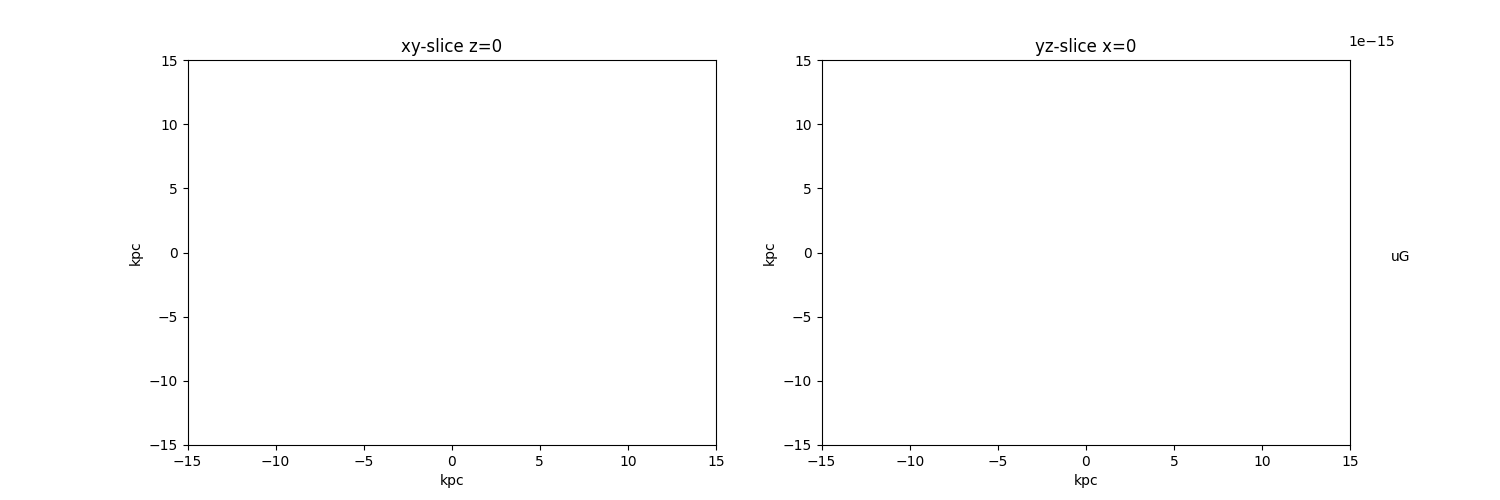
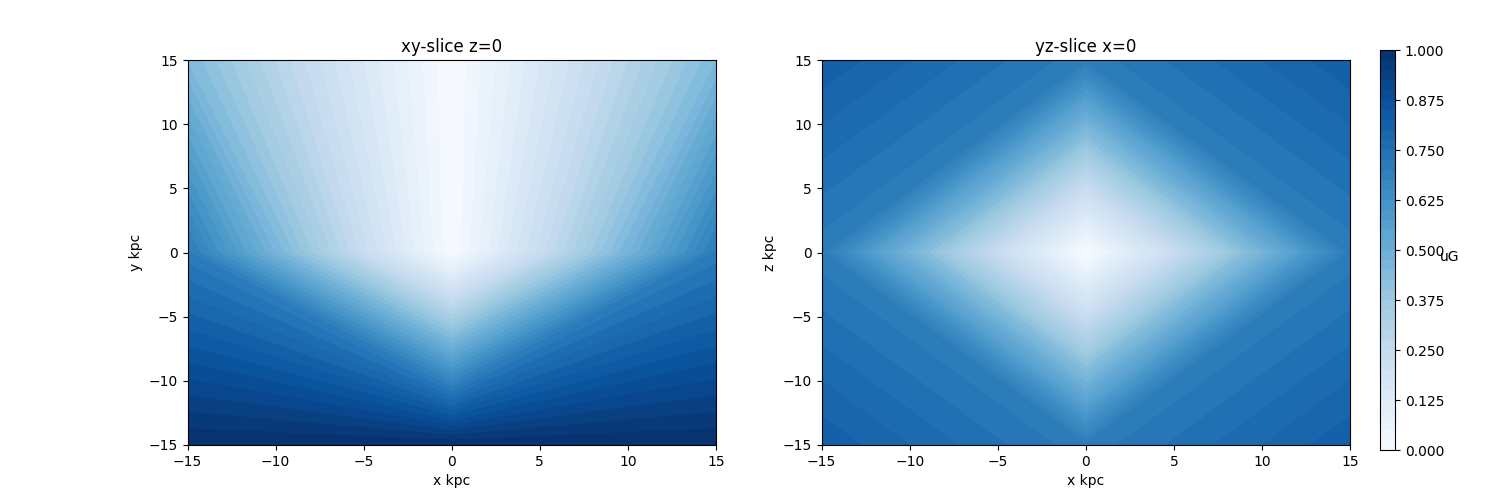
correct projection

diff --git a/synchrotronSim.py b/synchrotronSim.py
@@ -29,6 +29,7 @@ def plot_slices(data, grid, fname=' '):
     resolution = grid.resolution    
     
     # Take a horizontal and a vertical slice through the middle of the box
+    print("Taking index", int(resolution[2]/2))
     hor_slice = data[:,:,int(resolution[2]/2)]/unit 
     ver_slice = data[int(resolution[0]/2),:,:]/unit
     x = grid.x[:,0,0]/u.kpc
@@ -38,6 +39,7 @@ def plot_slices(data, grid, fname=' '):
     titles = ['xy-slice z=0','yz-slice x=0']
     slices = [hor_slice, ver_slice]
     coords = [[x,y], [x,z]]
+    clabel = [['x','y'], ['x','z']]
 
     maxvalue = np.max(data)/unit
     
@@ -50,8 +52,8 @@ def plot_slices(data, grid, fname=' '):
         im = ax.contourf(coords[n][0], coords[n][1], slices[n],
     		     40, cmap='Blues', vmin = 0, vmax = maxvalue)
         ax.title.set_text(titles[n])
-        ax.set_xlabel('kpc')
-        ax.set_ylabel('kpc')
+        ax.set_xlabel(clabel[n][0]+' kpc')
+        ax.set_ylabel(clabel[n][1]+' kpc')
         n += 1
         
         
@@ -113,7 +115,13 @@ class SpectralSynchrotronEmissivitySimulator(Simulator):
         unitvectors = []
         for x,y,z in zip(grid.x.ravel()/unit,grid.y.ravel()/unit,grid.z.ravel()/unit):
             v = np.array([x,y,z])-observer_position/unit
-            unitvectors.append(v/np.linalg.norm(v))
+            print(v)
+            normv = np.linalg.norm(v)
+            if normv == 0: # special case where the observer is inside one of the grid points
+                unitvectors.append(v)
+            else:
+                unitvectors.append(v/normv)
+        
         #print(tuple(self.resolution)+(3,))
         self.unitvector_grid = np.reshape(unitvectors, tuple(self.resolution)+(3,))
         #print(self.unitvector_grid)
@@ -137,9 +145,9 @@ class SpectralSynchrotronEmissivitySimulator(Simulator):
         ncre_grid = self.fields['cosmic_ray_electron_density']  # in units cm^-3
         B_grid    = self.fields['magnetic_field']               # in units uG
         u_grid    = self.unitvector_grid
-        #print(B_grid)
-        #print(u_grid)
-        #print(B_grid*u_grid)
+        print("Bgrid:\n",B_grid)
+        print("ugrid:\n",u_grid)
+        print("B*ugrid:\n",B_grid*u_grid)
         
         # Get the perpendicular component of the GMF for all grid points
         Bpara           = np.zeros(np.shape(B_grid)) * B_grid.unit
@@ -147,10 +155,10 @@ class SpectralSynchrotronEmissivitySimulator(Simulator):
         Bpara[:,:,:,0]  = amplitudes * u_grid[:,:,:,0]
         Bpara[:,:,:,1]  = amplitudes * u_grid[:,:,:,1]
         Bpara[:,:,:,2]  = amplitudes * u_grid[:,:,:,2]
-        #print(Bpara)
+        print("Bpara:\n",Bpara)
         Bperp                = B_grid - Bpara
         Bperp_amplitude_grid = np.sqrt(np.sum(Bperp*Bperp,axis=3))
-        #print(Bperp_amplitude_grid)        
+        print("Bperp_amp:\n",Bperp_amplitude_grid)        
         
         # just for testing 
         plot_slices(Bperp_amplitude_grid, self.grid, 'Bperp_amplitudes.png')        
@@ -211,9 +219,9 @@ powerCRE_exponential = fields.PowerlawCosmicRayElectrons(
 Bfield = fields.ConstantMagneticField(
     grid = cartesian_grid,
     ensemble_size= 1,
-    parameters={'Bx': 0*u.microgauss,
+    parameters={'Bx': 1*u.microgauss,
                 'By': 0*u.microgauss,
-                'Bz': 1*u.microgauss})
+                'Bz': 0*u.microgauss})
 
 
 #%% Call the simulator
